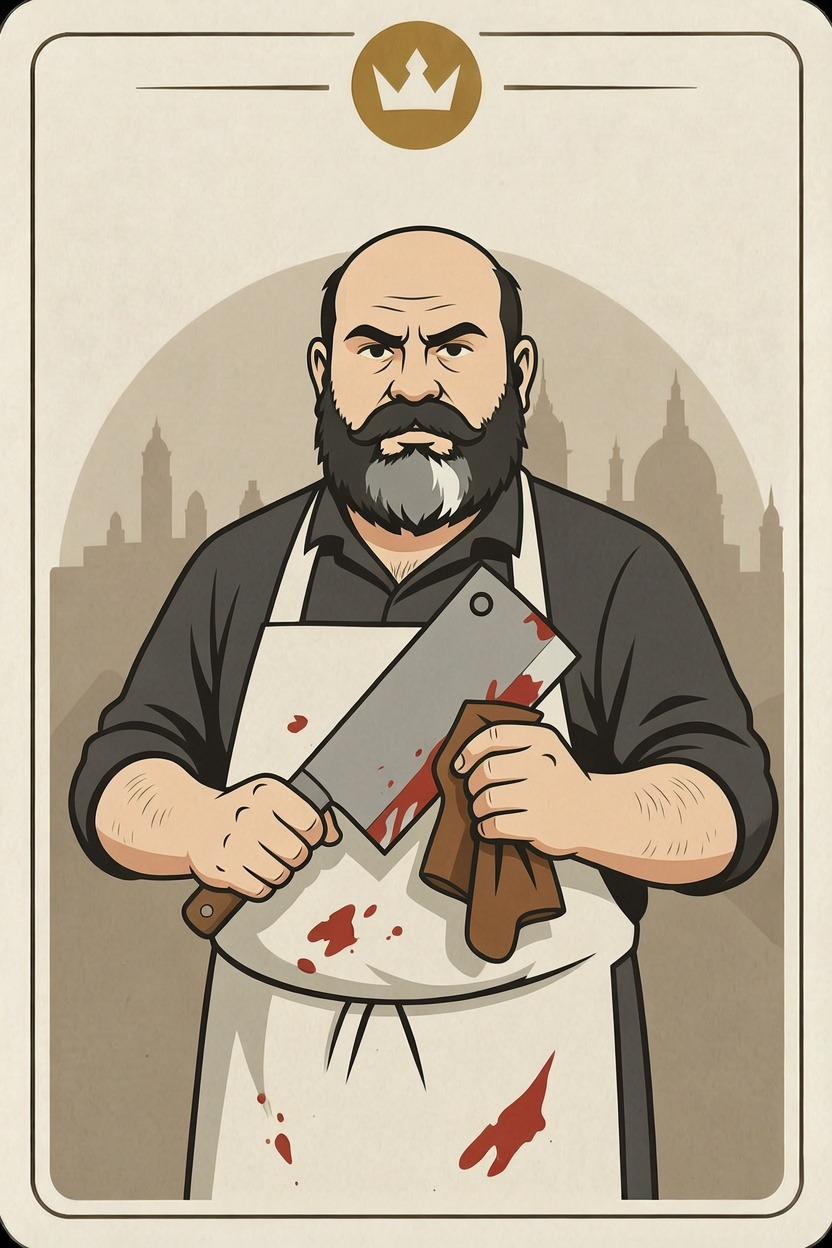
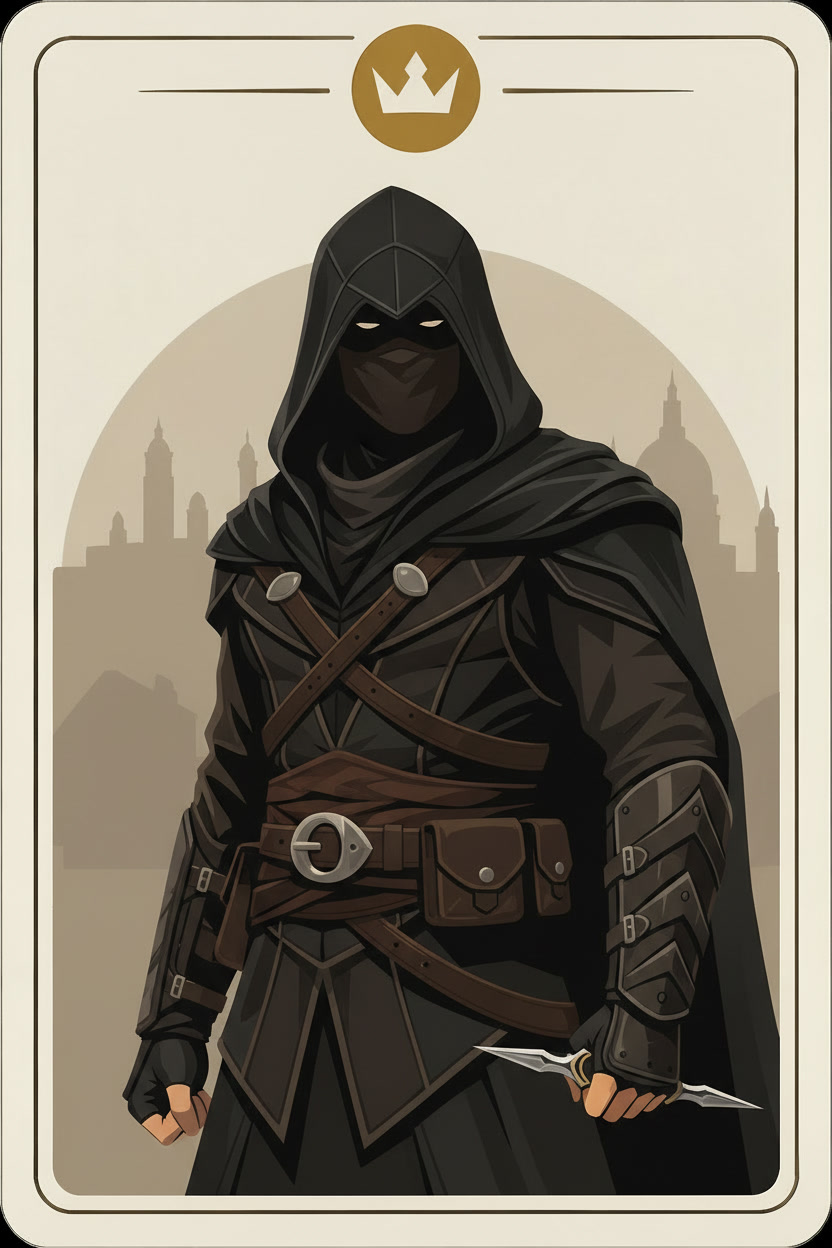
assassin card

diff --git a/src/shared/constants/actionCards.ts b/src/shared/constants/actionCards.ts
@@ -4,7 +4,7 @@ export const ACTION_CARD_DATA: Record<string, { image: string; title: string; de
   foreign_aid: { image: "/assets/images/cards/minimal/aid.png", title: "کمک خارجی", description: "دو سکه از بانک بردار (قابل بلاک)" },
   coup: { image: "/assets/images/cards/minimal/coup.png", title: "کودتا", description: "با ۷ سکه کودتا کن" },
   tax: { image: "/assets/images/cards/minimal/duke.png", title: "مالیات (بزرگزاده)", description: "3سکه از بانک بردار" },
-  assassinate: { image: "/assets/images/cards/assassin1.jpg", title: "ترور (قاتل)", description: "با ۳ سکه یک قتل انجام بده" },
+  assassinate: { image: "/assets/images/cards/minimal/assassin.jpg", title: "ترور (قاتل)", description: "با ۳ سکه یک قتل انجام بده" },
   steal: { image: "/assets/images/cards/minimal/captain.png", title: "دزدی (فرمانده)", description: "2 سکه از یک حریف بدزد" },
   exchange: { image: "/assets/images/cards/minimal/ambassador.png", title: "تعویض (سفیر)", description: "کارتهاتو با دسته عوض کن" },
   contessa_self: { image: "/assets/images/cards/minimal/contessa.png", title: "تعویض خودم (بازرس)", description: "یکی از کارتهاتو عوض کن" },
